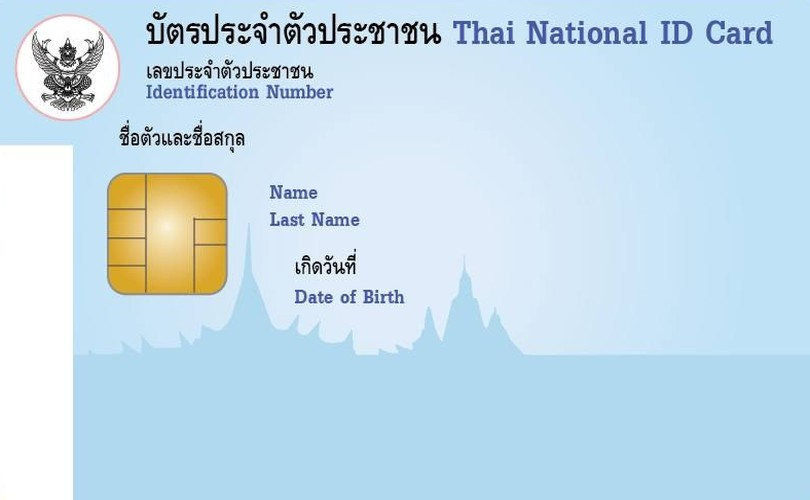
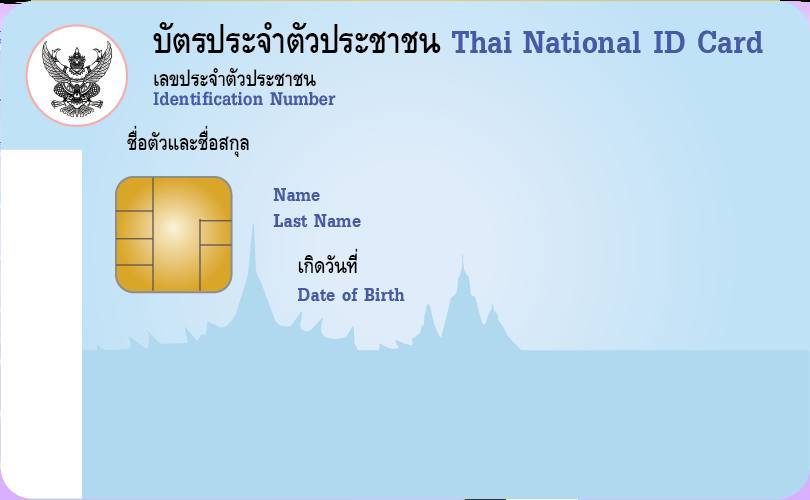
Use Alpha-3 background and holo layout for all ID cards

diff --git a/components/app/holo-id-card.tsx b/components/app/holo-id-card.tsx
@@ -86,21 +86,21 @@ function fieldText(f: Field, card: HoloCardData, address: [string, string]) {
 }
 
 const HOLO_ITEMS = [
-  { kind: 'seal', left: -1.43, top: 18.83, width: 12.61, rotate: 0 },
-  { kind: 'seal', left: 22.1, top: 22.51, width: 14.71, rotate: 0 },
-  { kind: 'seal', left: 44.96, top: 21.56, width: 13.87, rotate: 0 },
-  { kind: 'seal', left: 74.2, top: 17.74, width: 14.71, rotate: 0 },
-  { kind: 'seal', left: 63.7, top: 44.34, width: 15.13, rotate: 0 },
-  { kind: 'seal', left: 42.27, top: 64.39, width: 13.87, rotate: 0 },
-  { kind: 'seal', left: 14.54, top: 75.31, width: 13.03, rotate: 0 },
-  { kind: 'seal', left: 69.16, top: 86.63, width: 13.03, rotate: 0 },
-  { kind: 'txt', left: 30.67, top: 27.97, width: 10.5, rotate: 90 },
-  { kind: 'txt', left: 83.45, top: 20.46, width: 10.92, rotate: 90 },
-  { kind: 'txt', left: 54.03, top: 44.34, width: 14.71, rotate: 90 },
-  { kind: 'txt', left: 32.86, top: 64.12, width: 13.87, rotate: 90 },
-  { kind: 'txt', left: 14.54, top: 62.07, width: 12.86, rotate: 180 },
-  { kind: 'txt', left: -1.26, top: 31.65, width: 11.76, rotate: 0 },
-  { kind: 'txt', left: 69.16, top: 99.86, width: 12.61, rotate: 0 },
+  { kind: 'seal', left: -1.6, top: 19, width: 12.8, rotate: 0 },
+  { kind: 'seal', left: 22.2123, top: 25.5574, width: 14.7, rotate: 270 },
+  { kind: 'seal', left: 45, top: 21.3897, width: 13.7, rotate: 180 },
+  { kind: 'seal', left: 74.0891, top: 17.217, width: 14.8, rotate: 270 },
+  { kind: 'seal', left: 63.6, top: 44.2, width: 15.1, rotate: 90 },
+  { kind: 'seal', left: 42.1, top: 64.6, width: 14.5, rotate: 90 },
+  { kind: 'seal', left: 14.7, top: 75.4, width: 12.9, rotate: 180 },
+  { kind: 'seal', left: 60.6, top: 85.2, width: 14, rotate: 0 },
+  { kind: 'txt', left: 30.9674, top: 25.5097, width: 13.5, rotate: 270 },
+  { kind: 'txt', left: 83.3012, top: 17.5373, width: 14.2, rotate: 270 },
+  { kind: 'txt', left: 54.2, top: 44.4, width: 14.6, rotate: 90 },
+  { kind: 'txt', left: 33.2, top: 64.2, width: 13.8, rotate: 90 },
+  { kind: 'txt', left: 14.6, top: 61.9, width: 12.8, rotate: 180 },
+  { kind: 'txt', left: -1.1, top: 31.8, width: 11.76, rotate: 0 },
+  { kind: 'txt', left: 60.8661, top: 98.9784, width: 13.7, rotate: 0 },
   { kind: 'txt', left: 45.63, top: 7.09, width: 13.45, rotate: 180 },
 ] as const
 
@@ -203,7 +203,7 @@ export function HoloIdCard({ card, portrait = DEFAULT_PORTRAIT, barcode = DEFAUL
   return (
     <div ref={rootRef} role="img" aria-label="บัตรประจำตัวประชาชน" className={`holo-card ${className}`}>
       <svg className="holo-card-overlay" xmlns="http://www.w3.org/2000/svg" viewBox="0 0 810 500" preserveAspectRatio="none" aria-hidden="true">
-        <image x="9.3" y="173.67" width="54.4" height="297.67" preserveAspectRatio="none" href={barcode} />
+        <image x="15.8" y="174.67" width="54.4" height="297.67" preserveAspectRatio="none" href={barcode} />
         <image className={card.photoCode === '1040-02-04221656' ? 'holo-card-portrait-neutral' : undefined} x="624" y="240" width="162" height="202" preserveAspectRatio="xMidYMid slice" href={portrait} />
         {FIELDS.map((f) => (
           <text key={f.id} x={f.x} y={f.y} fontSize={f.size} fill={f.fill} stroke={f.fill} strokeWidth={f.stroke} data-max-right={f.maxRight}>

diff --git a/app/globals.css b/app/globals.css
@@ -444,6 +444,7 @@ html[data-forced-portrait] .min-h-\[80dvh\] {
   inset: 0;
   overflow: hidden;
   isolation: isolate;
+  clip-path: inset(1% 0.5% 0.6% 0.5% round 3% / 5%);
   background: url('/images/alpha/card-base.jpg') center / 100% 100% no-repeat;
 }
 
